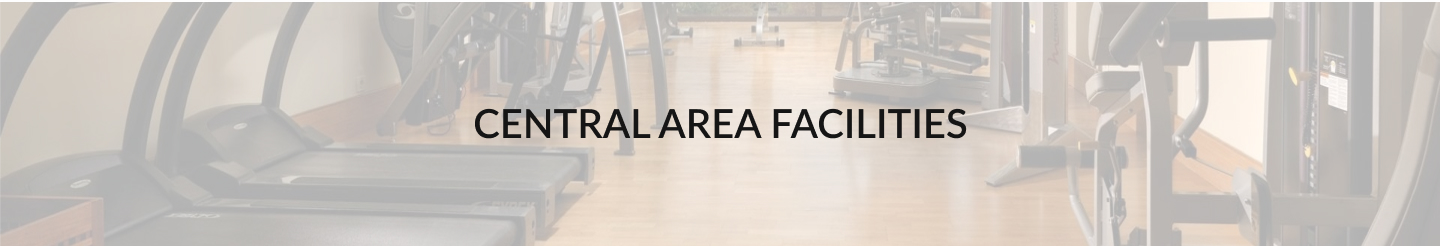
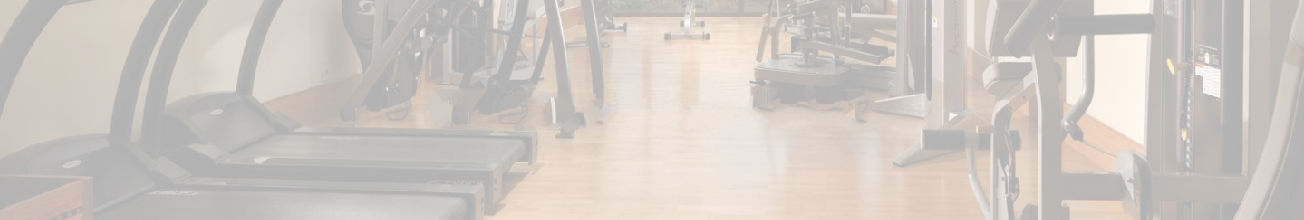
team B facility page by proxy

diff --git a/Facility.html b/Facility.html
@@ -4,12 +4,18 @@
 <head>
   <meta charset="utf-8">
   <title>Our Facilities</title>
+
+  <!--Bootstrap-->
   <link href="assets/bootstrap/bootstrap.min.css" rel="stylesheet">
+  <link rel="stylesheet" href="https://stackpath.bootstrapcdn.com/bootstrap/4.3.1/css/bootstrap.min.css" integrity="sha384-ggOyR0iXCbMQv3Xipma34MD+dH/1fQ784/j6cY/iJTQUOhcWr7x9JvoRxT2MZw1T" crossorigin="anonymous">
 
   <!-- CUSTOM CSS -->
   <link rel="stylesheet" href="assets/css/Facility.css">
   <link rel="stylesheet" href="assets/css/header.css">
   <link rel="stylesheet" href="assets/css/footer.css">
+
+  <!--Font Awesome-->
+  <link rel="stylesheet" href="https://cdnjs.cloudflare.com/ajax/libs/font-awesome/4.7.0/css/font-awesome.min.css">
 </head>
 <body>
   <!--============Facility Header====================-->
@@ -54,12 +60,16 @@
            </div>
           </nav>
        </div>
-    <div class="big-header"></div>
+      <div class="big-header">
+      <h1 class="home pb-3" id="words">
+            CENTRAL AREA FACILITIES
+      </h1>
+  </div>
   </header>
 <!--=============End of Header====================-->
 
 <!--============Body====================-->
-<main>
+<div class="container main">
 
       <table class="">
         <tr>
@@ -134,7 +144,7 @@
           <td>No</td>
         </tr>
       </table>
-  </main>
+    </div>
 
 
 

diff --git a/assets/css/Facility.css b/assets/css/Facility.css
@@ -12,7 +12,7 @@
   width: 1440px;
   height: 410px;
   position: absolute;
-  background: url(../images/facility.jpg) no-repeat;
+  background: url(../images/facility.jpg) repeat-x;
 }
 .nav-header{
   top: 65px;
@@ -20,19 +20,33 @@
   width: 100%;
   height: 105px;
 }
-.navbarItem {
-display: flex;
-justify-content: flex-end;
-margin-right: 60px;
-font-family: : Lato;
-font-style : Regular;
-font-size: 18px;
-font-family: bold;
-line-height: : 22px;
-line-height: 100%;
-align-content: center;
-vertical-align: : top;
-color:#4F4F4F;
+
+#words{
+  position: absolute;
+  width: 495px;
+  height: 48px;
+  left: 470px;
+  top: 80px;
+  font-family: Lato;
+  font-style: normal;
+  font-weight: 600;
+  font-size: 35px;
+  line-height: 48px;
+  padding: 0px;
+  margin: 0 auto;
+  /* identical to box height */
+  text-align: center;
+  color: #151515;
+}
+@media (max-width: 600px) {
+  #words {
+    width: 100%;
+  }
+}
+@media screen and (min-width: 300px) and (max-width: 420px){
+  .big-header{
+    min-height: 500px;
+  }
 }
 
 .logo-style{
@@ -59,7 +73,7 @@ width: 50px;
   height: 600px;
 }
 
-main{
+.main{
 margin-top: 400px;
 padding-left: 150px;
 margin-left: 100px;
